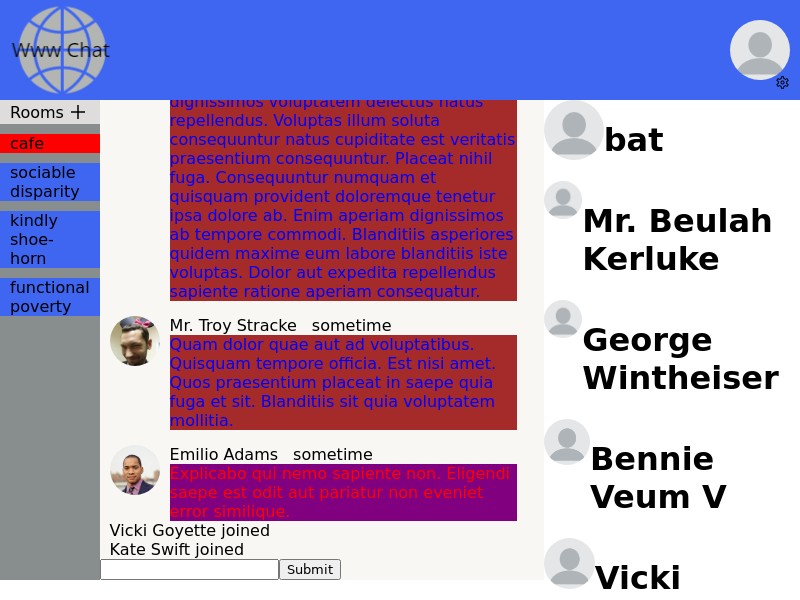
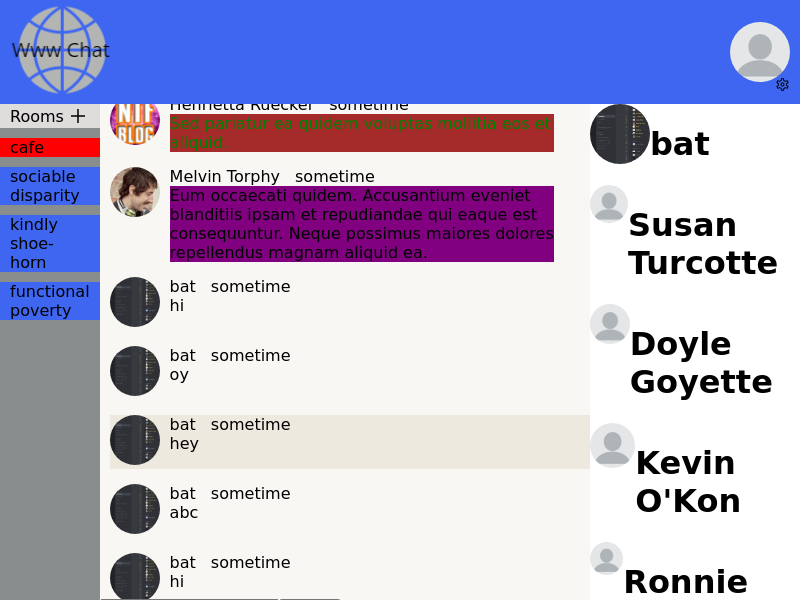
implement color picker

diff --git a/frontend/src/components/color_picker/ColorPicker.js b/frontend/src/components/color_picker/ColorPicker.js
@@ -1,0 +1,111 @@
+import { useState } from "react";
+import { useSelector, useDispatch } from "react-redux";
+import { selectUser, setUser } from "../../features/user/userSlice";
+import { ChromePicker } from "react-color";
+import "./color_picker.css";
+const ColorPicker = () => {
+  const user = useSelector(selectUser);
+  const dispatch = useDispatch();
+  const [background, setBackground] = useState();
+  const [color, setColor] = useState();
+  const [selected, setSelected] = useState("color");
+
+  async function handleSave() {
+    const response = await fetch("users/updateSettings", {
+      method: "POST",
+      headers: { "Content-Type": "application/json" },
+      body: JSON.stringify({
+        settings: {
+          messageColor: color ? color : user.settings.messageColor,
+          messageBackground: background
+            ? background
+            : user.settings.messageBackground,
+        },
+      }),
+    });
+    dispatch(
+      setUser({
+        ...user,
+        settings: {
+          messageColor: color ? color : user.settings.messageColor,
+          messageBackground: background
+            ? background
+            : user.settings.messageBackground,
+        },
+      })
+    );
+  }
+  function handleColor(color) {
+    setColor(color.hex);
+  }
+
+  function handleBackground(color) {
+    setBackground(color.hex);
+  }
+
+  function determineColor() {
+    if (selected === "color") {
+      if (!color) {
+        return user.settings.messageColor;
+      }
+      return color;
+    }
+
+    if (selected === "background") {
+      if (!background) {
+        return user.settings.messageBackground;
+      }
+      return background;
+    }
+
+    // if user enters a color, color will be that current color.
+
+    // if user changes to background, color will be that background.
+
+    // if user changes background, color will be that current background.
+  }
+
+  function handleChange(color) {
+    if (selected === "color") {
+      setColor(color.hex);
+    } else {
+      setBackground(color.hex);
+    }
+  }
+  return (
+    <div className="color-picker">
+      <div className="current-message-style">
+        <div
+          style={{
+            color: color ? color : user.settings.messageColor,
+            background: background
+              ? background
+              : user.settings.messageBackground,
+          }}
+        >
+          example text
+        </div>
+      </div>
+
+      <ChromePicker color={determineColor()} onChange={handleChange} />
+      <div className="color-picker-buttons">
+        <button
+          style={{ background: selected === "color" ? "gray" : "white" }}
+          onClick={() => setSelected("color")}
+        >
+          color
+        </button>
+        <button
+          style={{ background: selected === "background" ? "gray" : "white" }}
+          onClick={() => setSelected("background")}
+        >
+          background
+        </button>
+        <button onClick={handleSave}>save</button>
+        <button>cancel</button>
+      </div>
+    </div>
+  );
+};
+
+export default ColorPicker;

diff --git a/frontend/src/components/settings/Settings.js b/frontend/src/components/settings/Settings.js
@@ -5,9 +5,17 @@ import { selectUser } from "../../features/user/userSlice";
 import { useState } from "react";
 import Avatar from "../avatar/Avatar";
 import ImageUploader from "../image_uploader/ImageUploader.js";
+import ColorPicker from "../color_picker/ColorPicker";
 const Settings = () => {
   const user = useSelector(selectUser);
   const [displayImageUploader, setDisplayImageUploader] = useState(false);
+  const [displayColorPicker, setDisplayColorPicker] = useState(false);
+  const [background, setBackground] = useState();
+  const [color, setColor] = useState();
+
+  const handleChangeComplete = (color) => {
+    setBackground(color.hex);
+  };
 
   return (
     <div className="settings-container">
@@ -27,14 +35,34 @@ const Settings = () => {
         </div>
 
         <div className="message-settings">
-          <h1>{user.settings.messageColor}</h1>
-          <h1>{user.settings.messageBackground}</h1>
+          <b>Your current message style</b>
+
+          <div className="current-message-style">
+            <div
+              style={{
+                color: user.settings.messageColor,
+                background: user.settings.messageBackground,
+              }}
+            >
+              example text
+            </div>
+          </div>
+          <button onClick={() => setDisplayColorPicker(!displayColorPicker)}>
+            edit
+          </button>
         </div>
 
         {displayImageUploader && (
           <ImageUploader
             displayImageUploader={displayImageUploader}
             setDisplayImageUploader={setDisplayImageUploader}
+          />
+        )}
+
+        {displayColorPicker && (
+          <ColorPicker
+            displayColorPicker={displayColorPicker}
+            setDisplayColorPicker={setDisplayColorPicker}
           />
         )}
       </div>

diff --git a/frontend/src/components/main/Main.js b/frontend/src/components/main/Main.js
@@ -1,26 +1,18 @@
+import { useContext, useEffect } from "react";
+import { useDispatch } from "react-redux";
 import Rooms from "../rooms/Rooms";
 import Messenger from "../messenger/Messenger";
 import Users from "../users/Users";
-import { setUser } from "../../features/user/userSlice";
 import { setRooms } from "../../features/rooms/roomsSlice";
+import { setUser } from "../../features/user/userSlice";
 import { setMessages } from "../../features/messages/messagesSlice";
-import { setUsers } from "../../features/users/usersSlice";
-import { useDispatch } from "react-redux";
-import { useContext, useEffect } from "react";
-import { WebSocketContext } from "../socket/WebSocketProvider";
-import { setRoom } from "../../features/room/roomSlice";
 import { fetchUser, fetchMessages, fetchRooms, fetchCafeInfo } from "../../api";
+import { WebSocketContext } from "../socket/WebSocketProvider";
 import "./main.css";
 
 const Main = () => {
   const dispatch = useDispatch();
   const ws = useContext(WebSocketContext);
-
-  // get rooms
-
-  // get messages for current room.
-
-  // get users for current room.
 
   async function determineRoom() {
     const storedRoom = false;
@@ -35,7 +27,6 @@ const Main = () => {
     const rooms = await fetchRooms();
     dispatch(setRooms(rooms));
     const user = await fetchUser();
-    console.log("USER IN INITIALIZE", user);
     dispatch(setUser(user));
     const room = await determineRoom();
     const messages = await fetchMessages(room.id);

diff --git a/models/settings.js b/models/settings.js
@@ -6,11 +6,11 @@ const Settings = sequelize.define("settings", {
   id: uuidPrimaryKey,
   messageColor: {
     type: DataTypes.STRING,
-    defaultValue: "black",
+    defaultValue: "#000000",
   },
   messageBackground: {
     type: DataTypes.STRING,
-    defaultValue: "none",
+    defaultValue: "#FFFFFF",
   },
 });
 
@@ -19,4 +19,16 @@ async function createSettingsDB(userId) {
   await Settings.create({ userId });
 }
 
-module.exports = { Settings, createSettingsDB };
+async function updateSettingsDB(userId, settings) {
+  console.log("userId in update settings", userId);
+  console.log("settings in update settings", settings);
+  try {
+    await Settings.update(settings, {
+      where: { userId },
+    });
+  } catch (err) {
+    console.log(err);
+  }
+}
+
+module.exports = { Settings, createSettingsDB, updateSettingsDB };

diff --git a/controllers/users.js b/controllers/users.js
@@ -6,6 +6,8 @@ const {
   updateUserImageDB,
 } = require("../models/user");
 
+const { updateSettingsDB } = require("../models/settings");
+
 const register = async (req, res) => {
   const { name, password } = req.body;
 
@@ -65,4 +67,19 @@ const updateUserImage = async (req, res) => {
   res.json({ message: "success" });
 };
 
-module.exports = { login, register, getUser, checkAuth, updateUserImage };
+const updateSettings = async (req, res) => {
+  const userId = req.session.userId;
+  const { settings } = req.body;
+  console.log("settings in settings controller", settings);
+  await updateSettingsDB(userId, settings);
+  res.json({ message: "success" });
+};
+
+module.exports = {
+  login,
+  register,
+  getUser,
+  checkAuth,
+  updateUserImage,
+  updateSettings,
+};

diff --git a/routes/userRoute.js b/routes/userRoute.js
@@ -6,6 +6,7 @@ const {
   getUser,
   checkAuth,
   updateUserImage,
+  updateSettings,
 } = require("../controllers/users");
 const { isAuth } = require("../middleware/isAuth");
 // import controllers here.
@@ -16,5 +17,6 @@ router.post("/login", login);
 router.get("/getUser", isAuth, getUser);
 router.get("/checkAuth", checkAuth);
 router.post("/updateUserImage", updateUserImage);
+router.post("/updateSettings", updateSettings);
 
 module.exports = router;

diff --git a/frontend/src/components/settings/settings.css b/frontend/src/components/settings/settings.css
@@ -3,6 +3,7 @@
   right: 0;
   top: 100px;
   width: 60%;
+  height: 400px;
   max-width: 300px;
   background: gray;
   padding: 10px;
@@ -37,4 +38,17 @@
   background: #3e66f1;
   color: white;
   border-radius: 50%;
+}
+
+.current-message-style {
+  background: white;
+  padding: 10px;
+  margin-top: 5px;
+  margin-bottom: 5px;
+}
+
+.message-settings button {
+  height: 30px;
+  width: 60px;
+  margin-top: 5px;
 }

diff --git a/frontend/src/components/message/Message.js b/frontend/src/components/message/Message.js
@@ -10,7 +10,11 @@ const Message = ({ message }) => {
     return (
       <div className="message">
         <div className="avatar">
-          <img src={message.user.image} />
+          <img
+            src={
+              message.user.image ? message.user.image : "default-avatar.webp"
+            }
+          />
         </div>
         <div className="details">
           <div className="info">

diff --git a/frontend/src/components/message_form/MessageForm.js b/frontend/src/components/message_form/MessageForm.js
@@ -19,8 +19,8 @@ const MessageForm = () => {
       userId: user.id,
       roomId: room.id,
       content: content,
-      color: user.settings.message_color,
-      background: user.settings.message_background,
+      color: user.settings.messageColor,
+      background: user.settings.messageBackground,
     };
     ws.sendMessage(messageObj, user);
     setContent("");

diff --git a/frontend/src/components/color_picker/color_picker.css b/frontend/src/components/color_picker/color_picker.css
@@ -1,0 +1,13 @@
+.color-picker {
+  position: absolute;
+  display: flex;
+  flex-direction: column;
+  align-items: center;
+  right: 0;
+  top: 0;
+  width: 100%;
+  height: 100%;
+  background: blue;
+  padding: 10px;
+  z-index: 5;
+}

diff --git a/frontend/src/api.js b/frontend/src/api.js
@@ -50,7 +50,6 @@ async function updateUserImage(url) {}
 module.exports = {
   fetchMessages,
   fetchRooms,
-
   fetchCafeInfo,
   fetchUser,
 };
